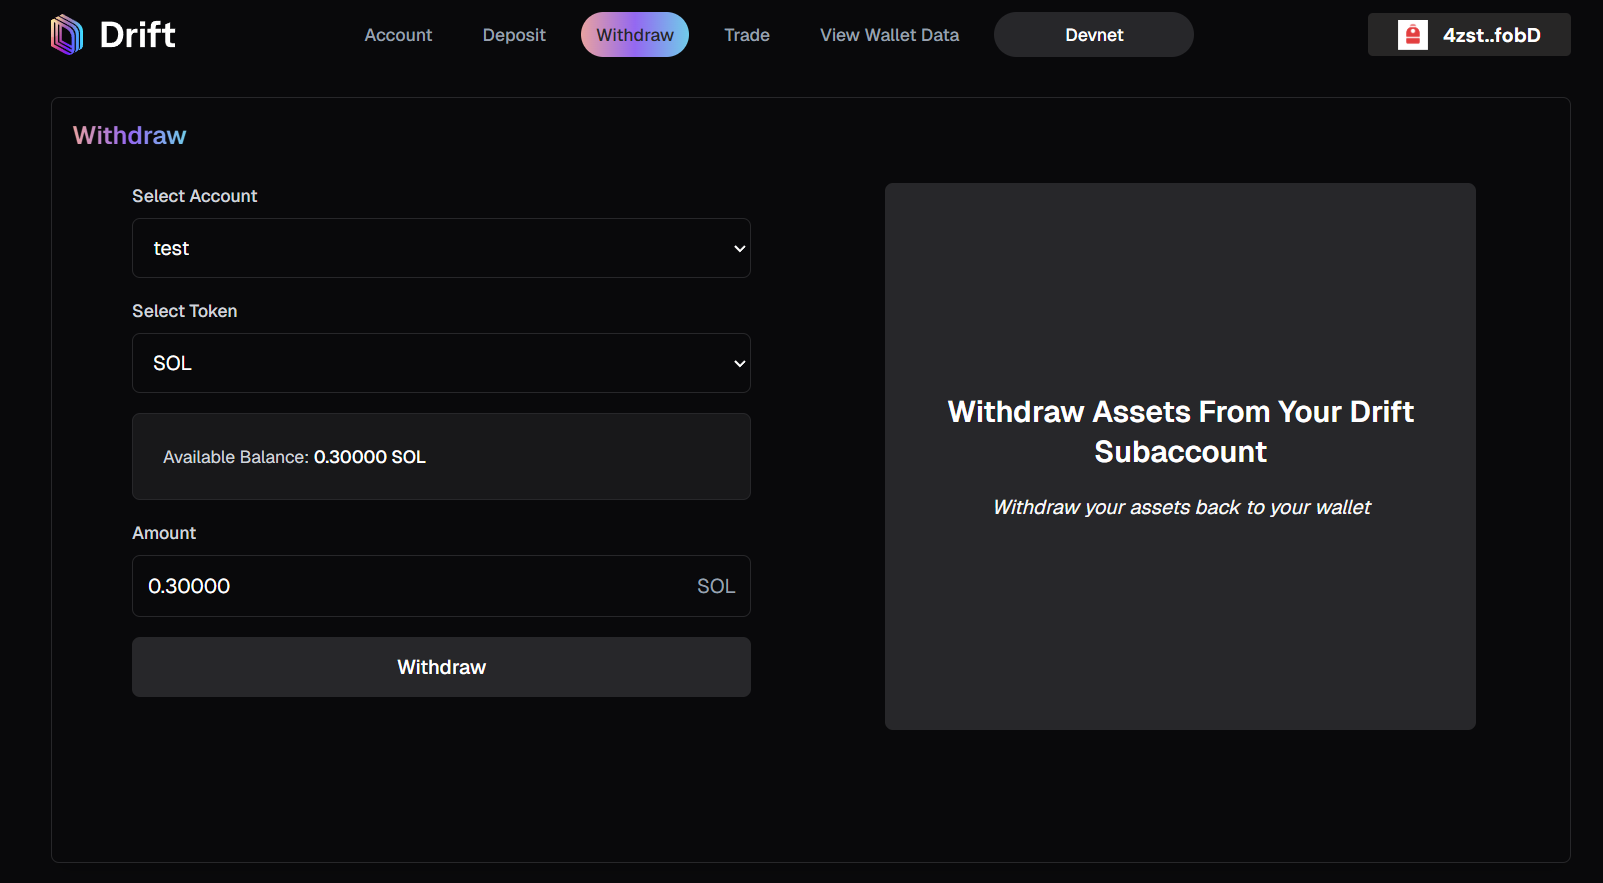
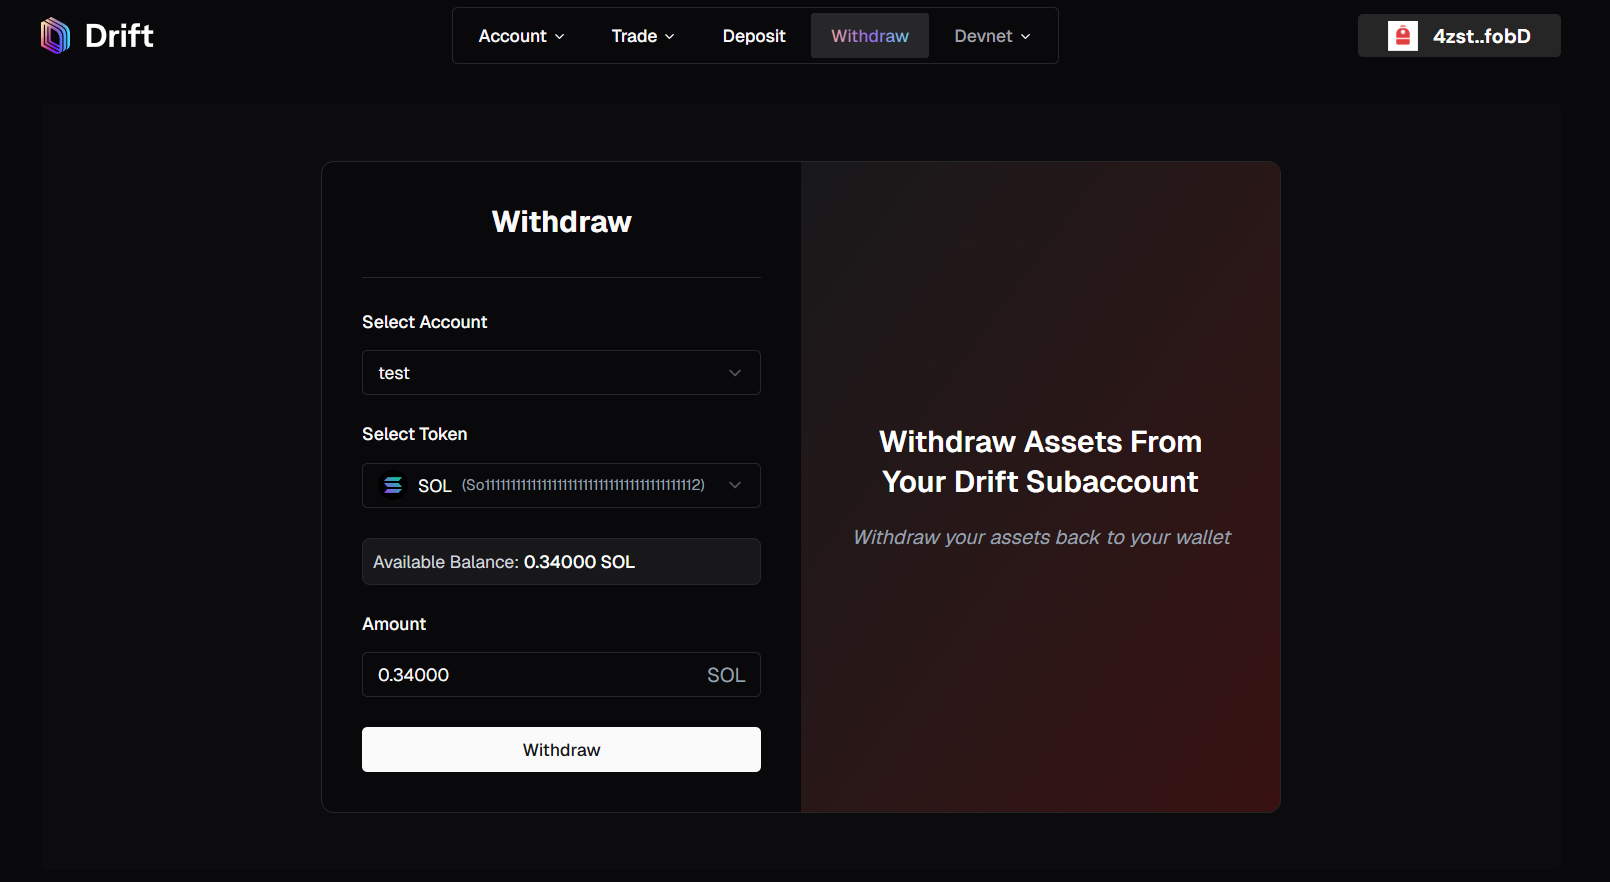
docs: update app demo images

diff --git a/src/components/drift/AccountInfoDisplay.tsx b/src/components/drift/AccountInfoDisplay.tsx
@@ -204,7 +204,7 @@ export const AccountInfoDisplay = ({ account }: AccountInfoDisplayProps) => {
       )}
 
       <div className="space-y-4">
-        <div className="space-y-2">
+        <div className="space-y-2 max-h-[400px] overflow-y-auto">
           {remainingTokens.map((market, index) => (
             <div
               key={`market-${market.marketIndex}`}

diff --git a/README.md b/README.md
@@ -37,8 +37,9 @@ This repository contains a UI to view subaccounts and deposit/withdraw/trade per
 
 - [Next.js](https://nextjs.org/) – React framework
 - [TypeScript](https://www.typescriptlang.org/) – Type-safe JavaScript
-- [Tailwind CSS](https://tailwindcss.com/) – Utility-first CSS framework
 - [Zustand](https://github.com/pmndrs/zustand) – State management
+- [Tailwind CSS](https://tailwindcss.com/) – Utility-first CSS framework
+- [Shadcn UI](https://ui.shadcn.com/) / [Radix UI](https://www.radix-ui.com/) – UI components
 - [@drift-labs/sdk](https://github.com/drift-labs/protocol-v2) – Drift Protocol SDK
 - [@solana/web3.js](https://github.com/solana-labs/solana-web3.js) – Solana blockchain interaction
 - [@solana/wallet-adapter-react](https://github.com/solana-labs/wallet-adapter) – Solana wallet integration
@@ -72,6 +73,10 @@ This repository contains a UI to view subaccounts and deposit/withdraw/trade per
 ##### Wallet Adaptor
 
 ![drift-wallet-adaptor](/public/drift-wallet-adaptor.png)
+
+#### Navbar
+
+![drift-navbar](/public/drift-navbar.png)
 
 ##### Default
 
